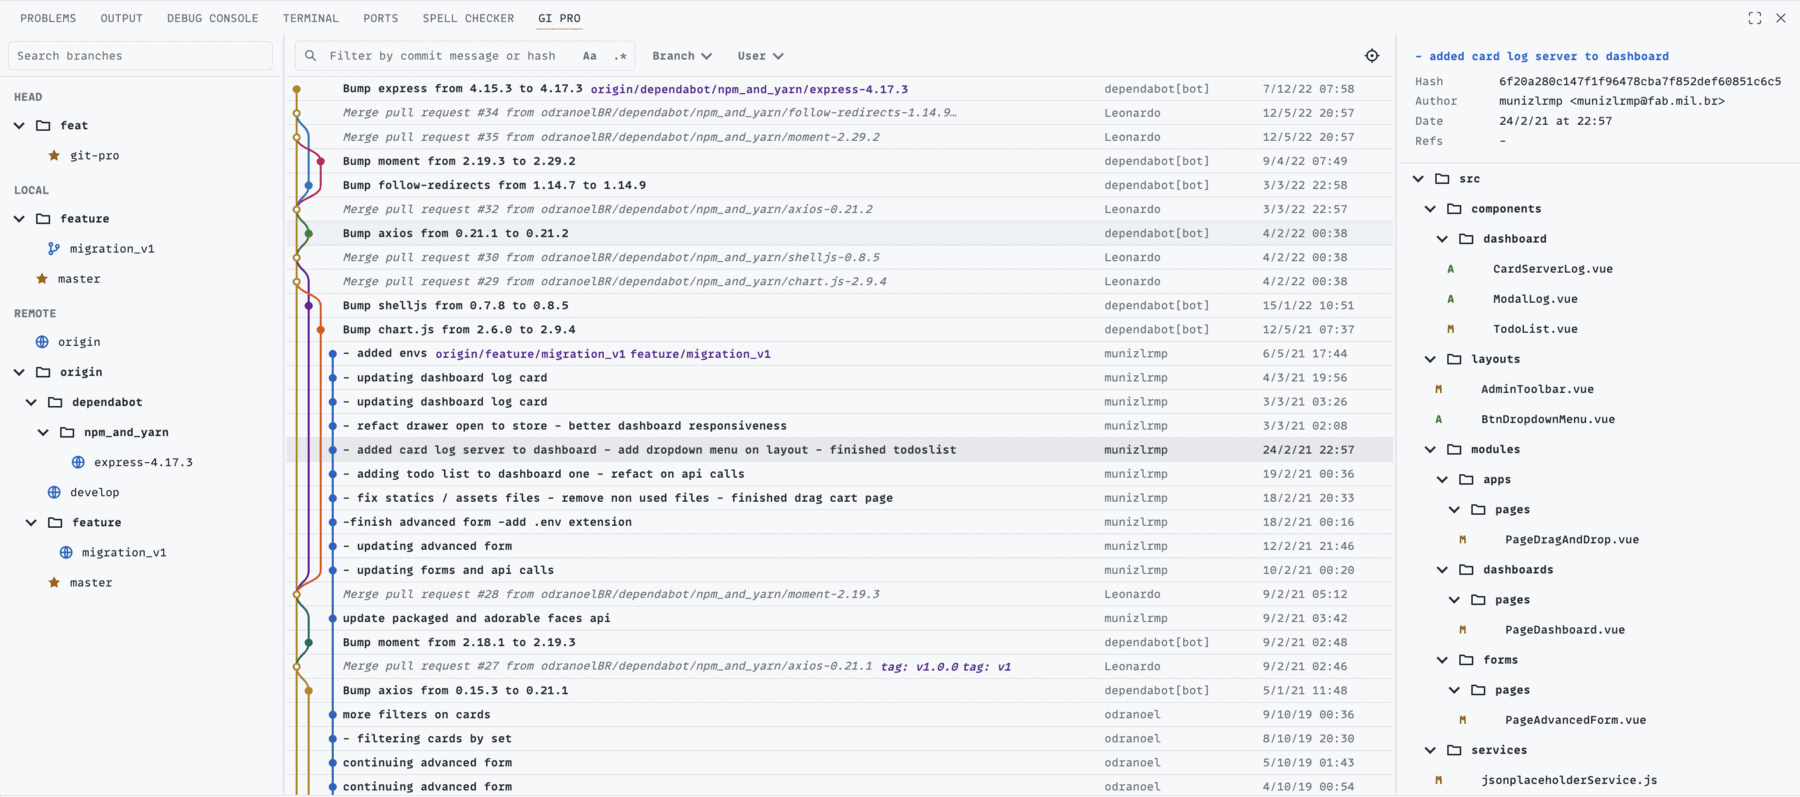
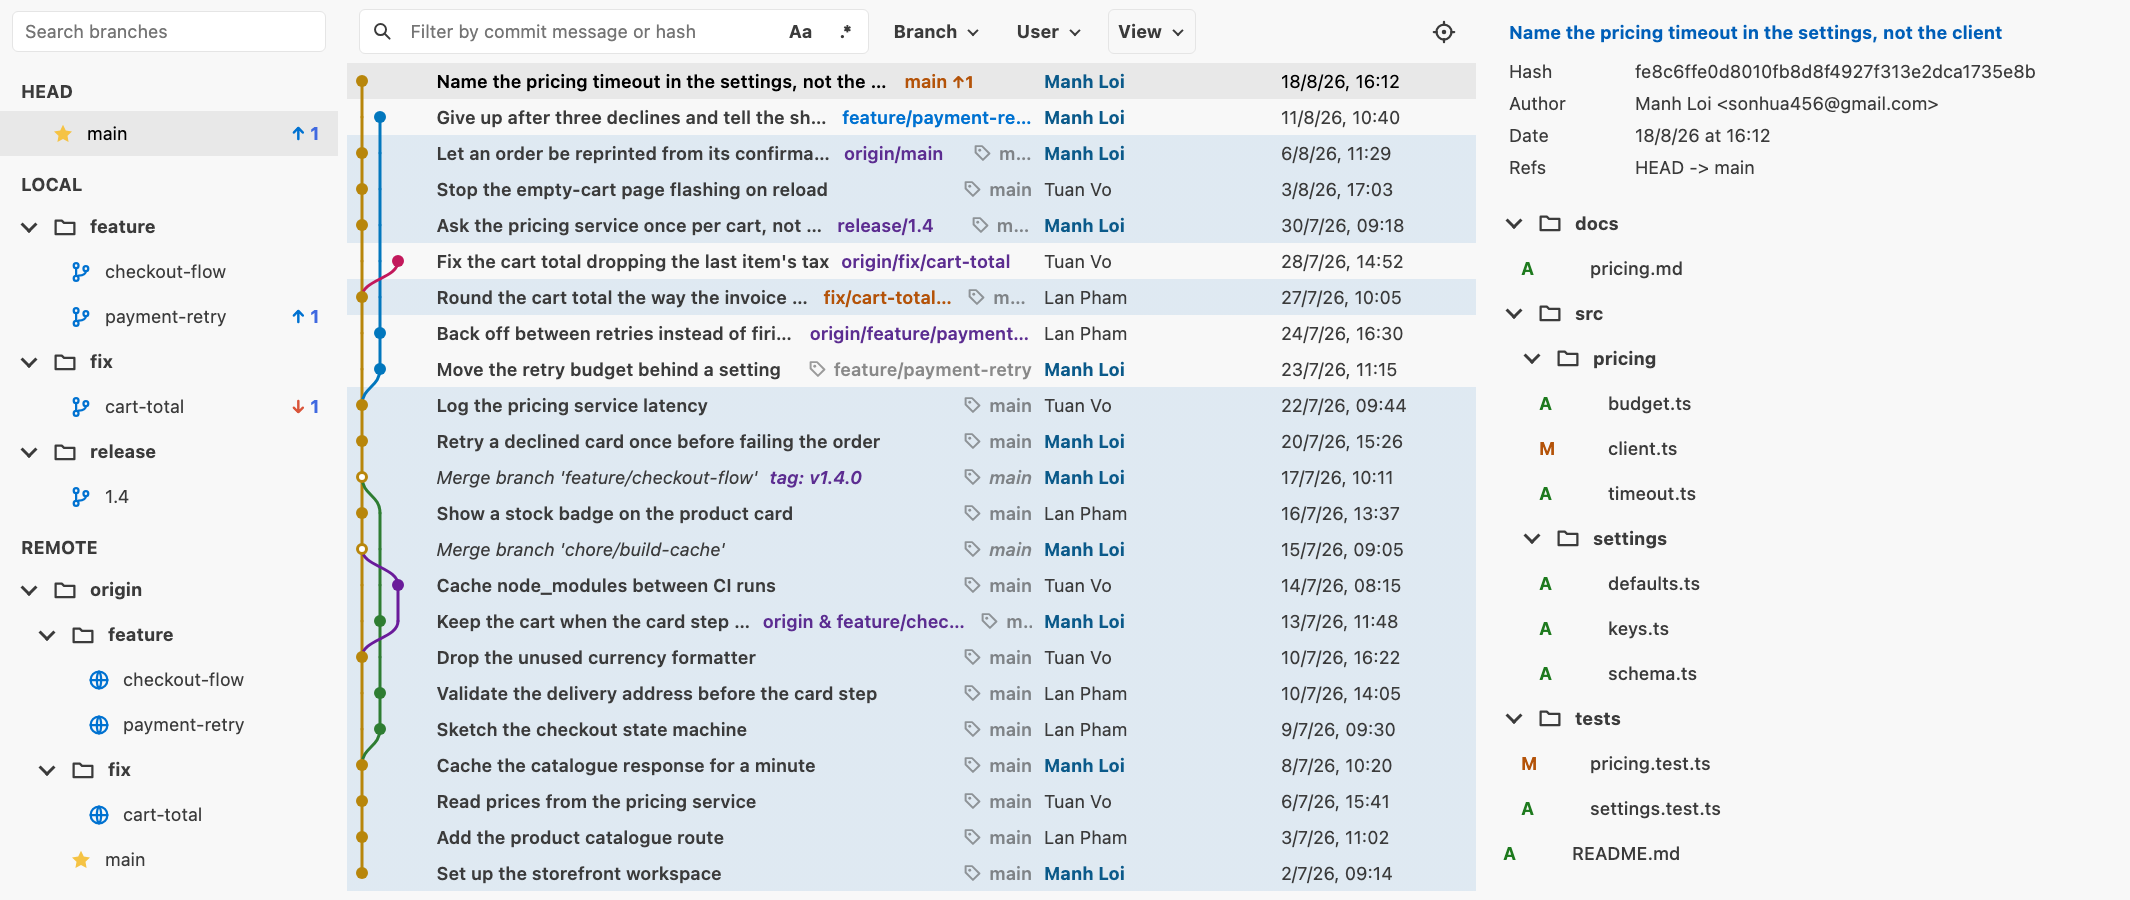
Reshoot the README previews, and document what 0.1.3 ships
The Log View and History for Selection shots were from July 5th, before
the rename: both showed a "GI PRO" tab, a UI two releases old, and a
stranger's repository, where two thirds of the log was dependabot
bumping express. The History shot was 60% empty white space below two
commit rows, and the Log View was 1800px wide, which the Marketplace
scales down until 12px text stops being text.

Both panels are webviews, so the replacements are rendered from the
code that ships rather than photographed: renderHtml and
renderHistoryHtml, driven through dist/ with the vscode module stubbed,
captured in headless Chrome. The pixels cannot drift from the release
the way a screenshot taken by hand does.

The data is a generated repository, not this one - our history is a
single straight lane, which is the least interesting thing a commit
graph can draw. storefront has three branches, two merges, a tag,
upstreams that are genuinely ahead and behind, and three authors, so
the branch tree shows its arrows, the current branch shows its tint,
and highlightMyCommits has something to mark.

Four things that each quietly produce a wrong image, recorded because
the next reshoot will hit all four again:

- media/logView.js opens with acquireVsCodeApi(). Outside VS Code that
  throws on line 1 and the body stays empty - the first capture was a
  flat dark rectangle.
- .commit-list is calc(100vh - 42px), so a window taller than the rows
[…]

diff --git a/README.md b/README.md
@@ -19,14 +19,16 @@ Gitrail brings fast Git workflows into VS Code: a visual log view, file history,
 - History for Selection to trace commits that touched selected lines.
 - Inline blame on the active cursor line.
 - Smart Commit with staged and unstaged change handling.
-- Quick Git actions for fetch, pull with rebase, push, force push with lease, stash, branch checkout, interactive rebase, and cherry-pick.
+- Quick Git actions for fetch, pull with rebase, push, force push with lease, stash, branch checkout, new branch, merge, interactive rebase, and cherry-pick.
 - Branch diff view in the Source Control sidebar.
 
 ## Preview
 
 ### Visual Git Log
 
-Browse branches, search commits, inspect the graph, and review changed files from one panel.
+Browse branches, search commits, inspect the graph, and review changed files from one panel. Branches
+carry their tracking state, commits on the current branch are tinted, and your own commits are named in
+blue.
 
 ![Gitrail visual Git Log view](media/readme/log-view.png)
 
@@ -38,7 +40,7 @@ Compare a branch with your working tree and get individual files or all changes 
 
 ### History for Selection
 
-Select lines in a tracked file and see the commits that touched that exact range.
+Select lines in a tracked file and see the commits that touched that exact range, newest first.
 
 ![Gitrail history for selected lines](media/readme/selection-history.png)
 
@@ -107,9 +109,13 @@ Available actions include:
 - `Gitrail: Pull with Rebase`
 - `Gitrail: Push`
 - `Gitrail: Force Push with Lease`
+- `Gitrail: Amend Commit Without Editing Message`
 - `Gitrail: Stash Changes`
 - `Gitrail: Pop Stash`
 - `Gitrail: Checkout Branch`
+- `Gitrail: New Branch...`
+- `Gitrail: Branches`
+- `Gitrail: Merge with Options...`
 - `Gitrail: Interactive Rebase`
 - `Gitrail: Cherry-pick Commit`
 - `Gitrail: Abort`
@@ -120,6 +126,8 @@ Gitrail contributes these settings:
 
 - `giPro.terminalName`: terminal name used to run Git commands. Default: `Gitrail`.
 - `giPro.smartCommitPushAfterCommit`: ask whether to push after a smart commit. Default: `false`.
+- `giPro.logView.highlightCurrentBranch`: tint the background of commits the current branch contains. Default: `true`.
+- `giPro.logView.highlightMyCommits`: name your own commits in blue and bold, matched on `git config user.name`. Default: `true`.
 - `giPro.inlineBlame.enabled`: show inline Git blame on the active cursor line. Default: `true`.
 - `giPro.inlineBlame.delayMs`: delay before refreshing inline blame after cursor movement. Default: `50`.
 
